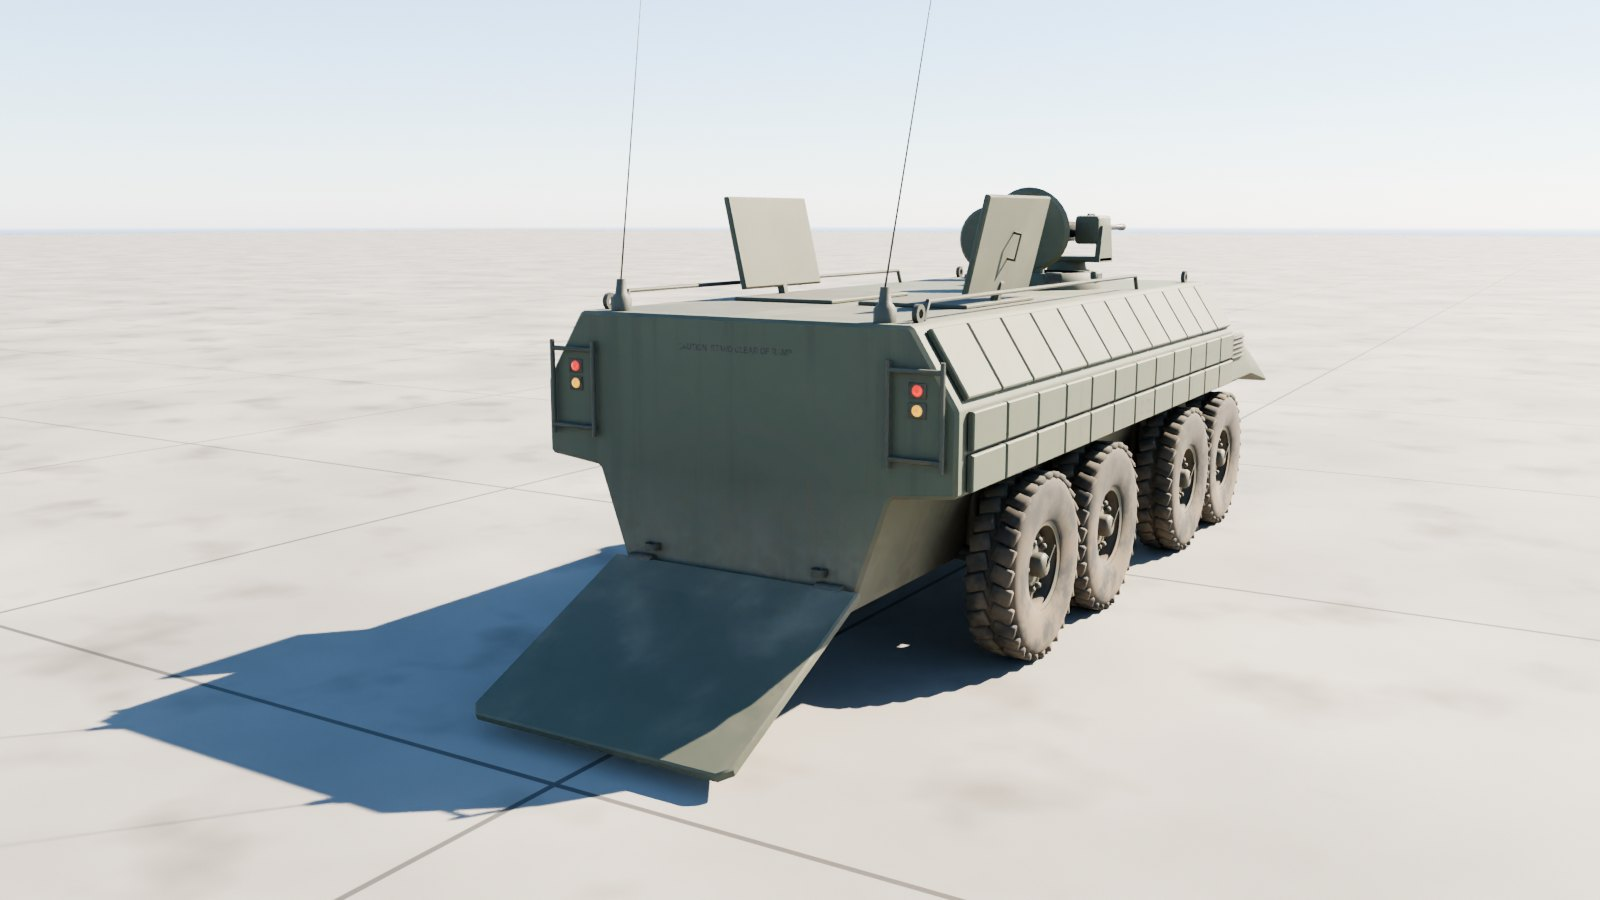
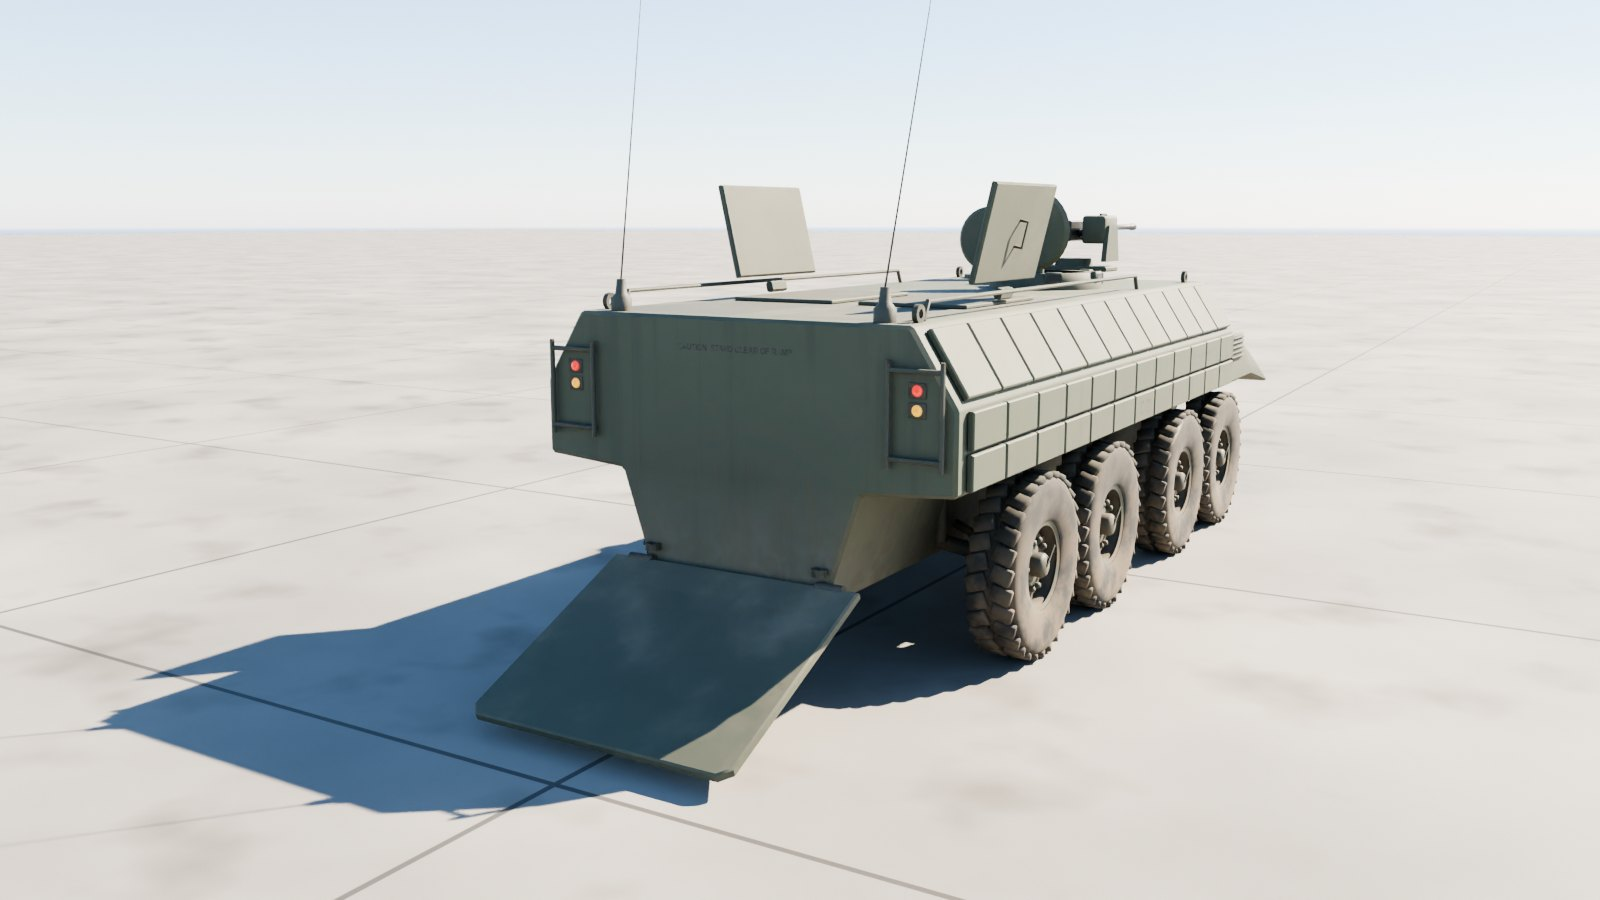
The Stryker's renders and README, with the weapon station in its new place
Claude-Session: https://claude.ai/code/session_011yj7L8L1UpaZ79XnLpfs4s

diff --git a/m1126-stryker/README.md b/m1126-stryker/README.md
@@ -42,12 +42,14 @@ All within 12 mm.
 
 Each is its own node, pivoted where the real part turns. Its glTF extras say how it moves: `control` (wheel, steer, track, hinge, traverse, elevate, cargo), `axis`, `limits`, and `drive` in words.
 
+The gun also carries `limits_by_traverse`: its lowest and highest elevation every `traverse_step` (5) degrees of the turret's traverse, measured against the hull, so a game can lift it over the deck and whatever else stands in its way instead of letting it sink through. The viewer clamps to it.
+
 | Node | Moves |
 | --- | --- |
 | `RWS` | the M151 Protector: slews about local Y; + turns it left |
-| `RWS_Cradle` | the M2 and its sights: elevate about (−1, 0, 0); + raises them, −20° to +60° |
+| `RWS_Cradle` | the M2 and its sights: elevate about (−1, 0, 0); + raises them, −20° to +60°; its `limits_by_traverse` keep the gun off the hull, down to −12° over the front corners |
 | `Wheel_{1-4}_{Left,Right}` | spin about local X; + rolls forward (radius in the extras) |
-| `Steer_{1,2}_{Left,Right}` | steer about local Y; + turns left. The second axle turns about two thirds as far as the first. The wheels sit inside these nodes. |
+| `Steer_{1,2}_{Left,Right}` | steer about local Y; + turns left. Full lock is the inner wheels' for the published 52 ft turning circle: 37° on the first axle, 26° on the second. The wheels sit inside these nodes. |
 | `Ramp` | lowers about local X at its foot (group `Ramp`); `Ramp_Door` opens in it (group `Ramp door`) |
 | `Driver_Hatch`, `Commander_Hatch`, `Troop_Hatch_{Left,Right}` | open about their hinges (group `Hatches`) |
 | `Light_*` | head, blackout and tail lights; their lens materials `Light_White`, `Light_Amber` and `Light_Red` are emissive, so scale the emission to switch them |
@@ -87,6 +89,6 @@ python3.11 m1126-stryker/build.py --preview out --lookdev    # a quick look at t
 
 ## Accuracy
 
-- **Published dimensions:** length, width, height to the top of the weapon station, ground clearance and the tyres all match.
-- **Estimated:** the axle spacing (taken from the LAV III), the track, the hull's facets and the tiles' layout.
+- **Published dimensions:** length, width, height to the top of the weapon station, ground clearance (the belly and the differentials both 0.53 m up), the tyres and the 52 ft turning circle (as the steering locks) all match.
+- **Estimated:** the axle spacing (taken from the LAV III, each pair far enough apart that its tyres clear), the track, the hull's facets and the tiles' layout.
 - **Markings:** plausible but made up.
